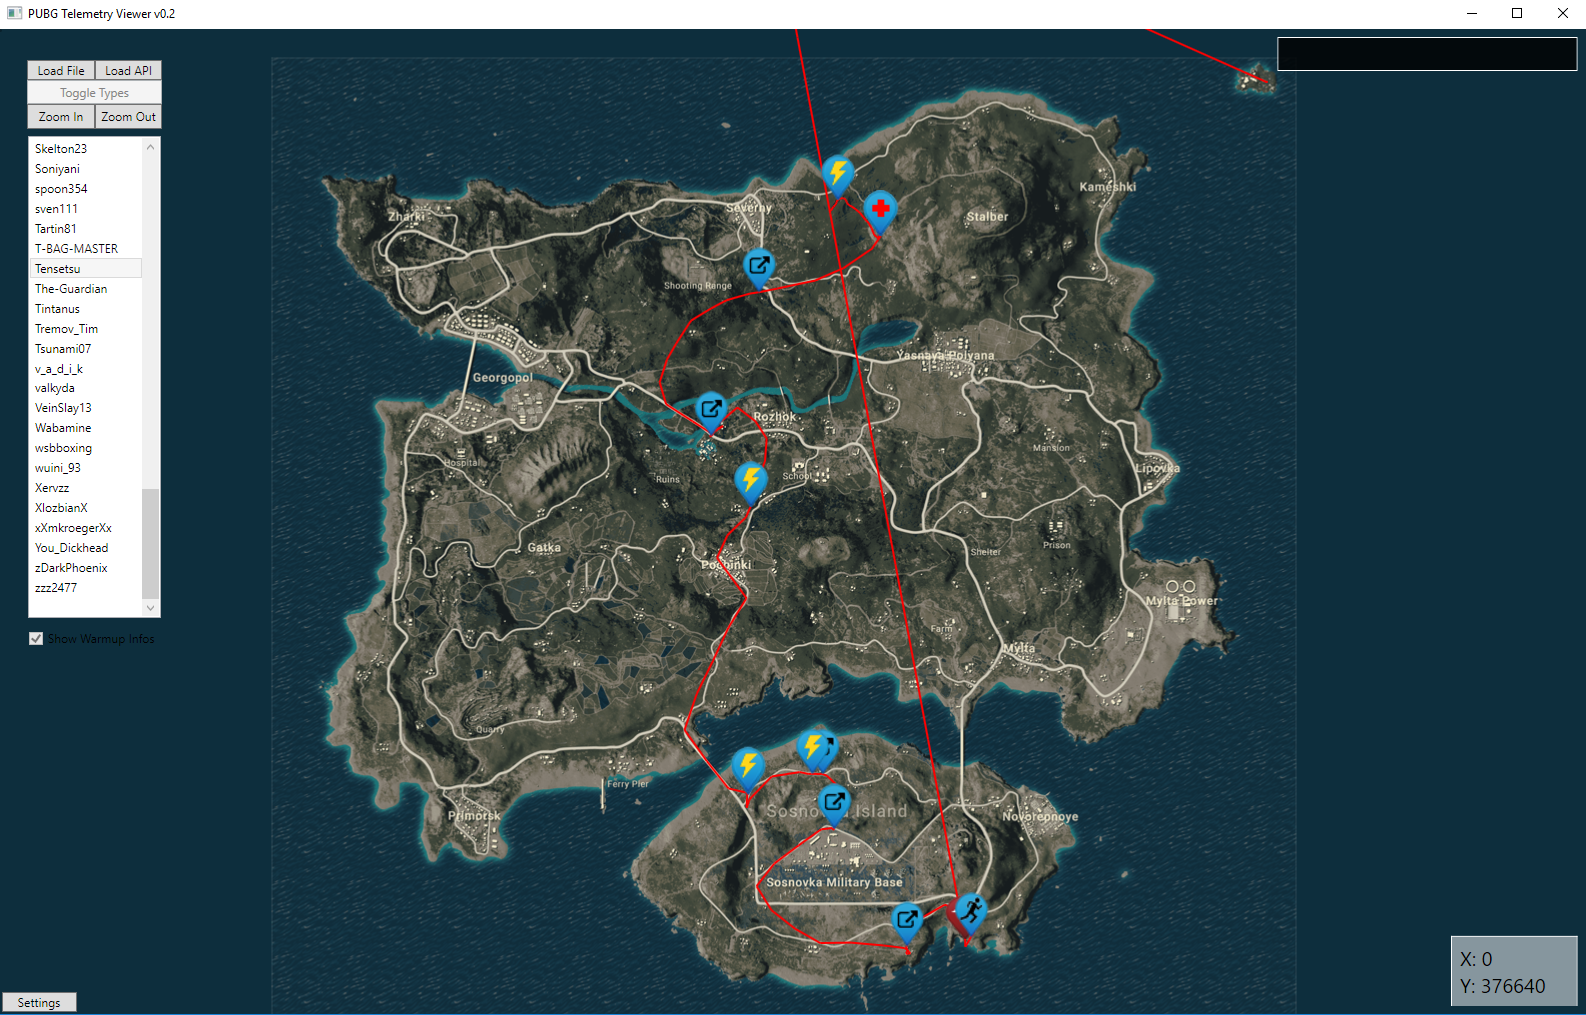
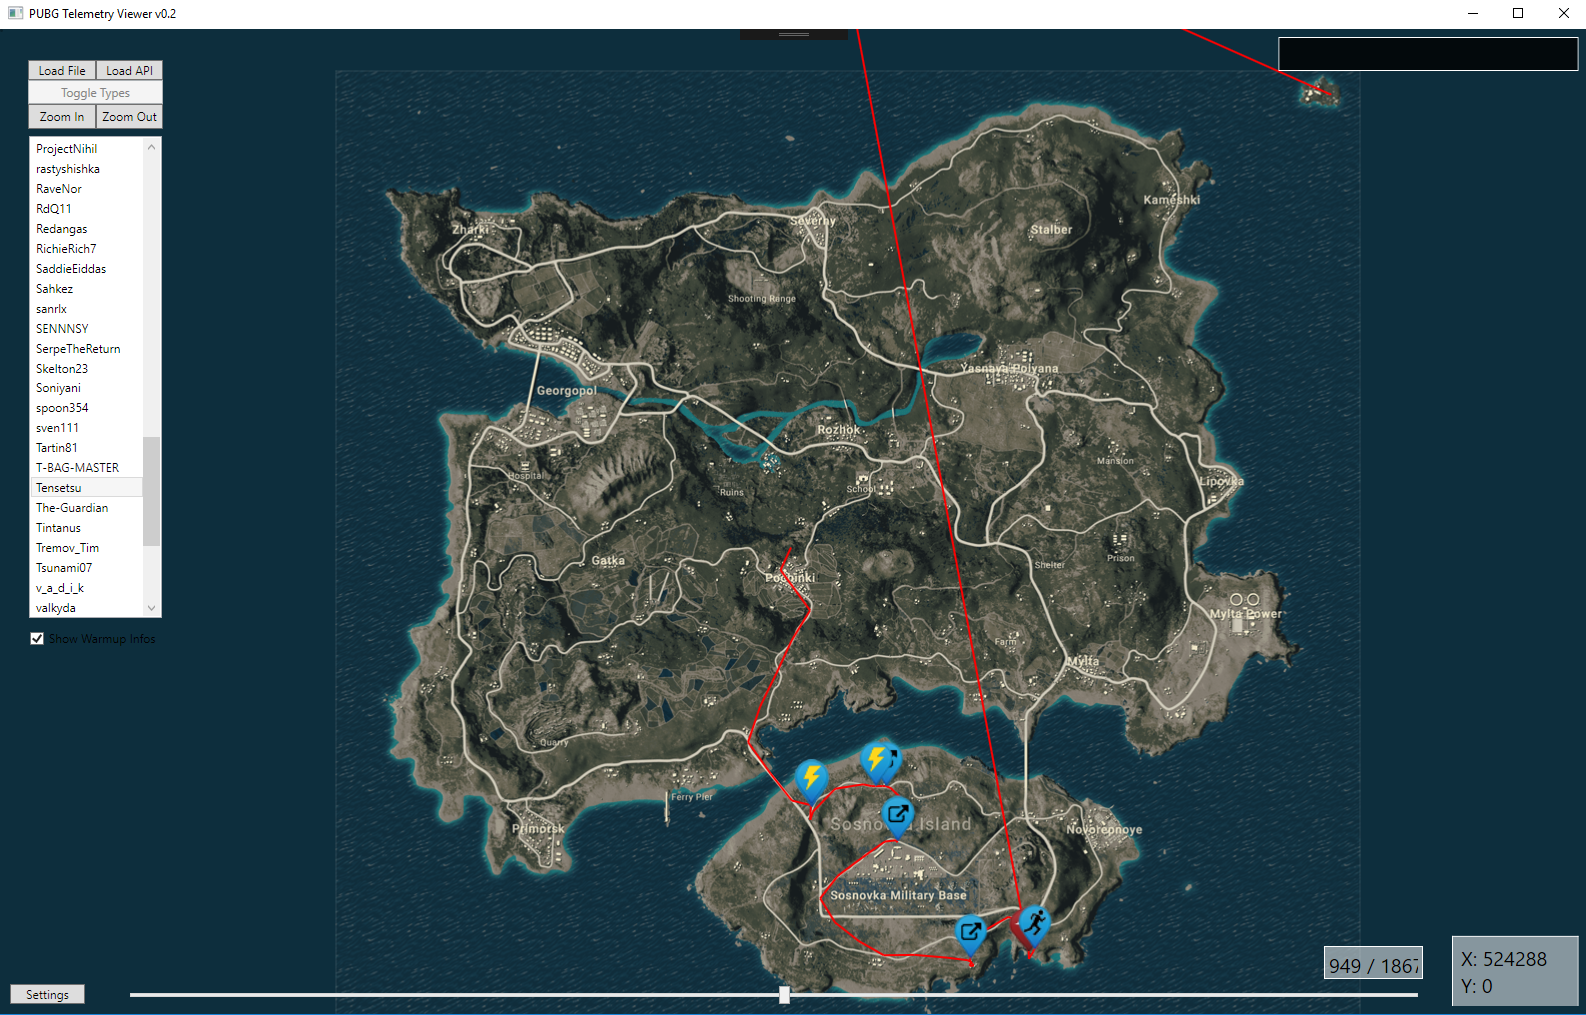
UPDATE 4.1
* added new Example images
* fixed slider display

diff --git a/PUBGTelemetryViewer/MainWindow.xaml b/PUBGTelemetryViewer/MainWindow.xaml
@@ -42,9 +42,9 @@
         <Slider x:Name="slider_time" HorizontalAlignment="Left" Margin="125,0,0,8" Width="1298" Height="20" VerticalAlignment="Bottom" Foreground="#FF9E9E9E" Interval="1" Minimum="1" ValueChanged="slider_time_ValueChanged"/>
 
 
-        <Border BorderBrush="White" BorderThickness="1" HorizontalAlignment="Left" Height="33" Margin="1324,0,0,35" VerticalAlignment="Bottom" Width="99" Background="#7FFFFFFF">
+        <Border BorderBrush="White" BorderThickness="1" HorizontalAlignment="Left" Height="33" Margin="1296,0,0,35" VerticalAlignment="Bottom" Width="127" Background="#7FFFFFFF">
 
-            <Label x:Name="timeline_label" Content="0 / 0" Height="33" FontSize="20" HorizontalAlignment="Center" HorizontalContentAlignment="Center" VerticalAlignment="Center" VerticalContentAlignment="Center" Margin="-1" Width="99"/>
+            <Label x:Name="timeline_label" Content="0 / 0" Height="33" FontSize="20" HorizontalAlignment="Center" HorizontalContentAlignment="Center" VerticalAlignment="Center" VerticalContentAlignment="Center" Margin="-1" Width="127"/>
         </Border>
 
 

diff --git a/PUBGTelemetryViewer/MainWindow.xaml.cs b/PUBGTelemetryViewer/MainWindow.xaml.cs
@@ -349,7 +349,7 @@ namespace PUBGTelemetryViewer
         {
 
             slider_time.Maximum = Convert.ToInt32(player.LogPlayerLogoutList[0].DateTimeOffset.Subtract(player.LogPlayerCreateList[0].Date).TotalSeconds);
-            slider_time.Value = 1;
+            slider_time.Value = slider_time.Maximum;
             MapControl.matchStartTime = GetMatchStartTime(player.LogPlayerCreateList);
             MapControl.PlaneDepartureTime = GetPlaneDeparture(telemetryData);
         }
